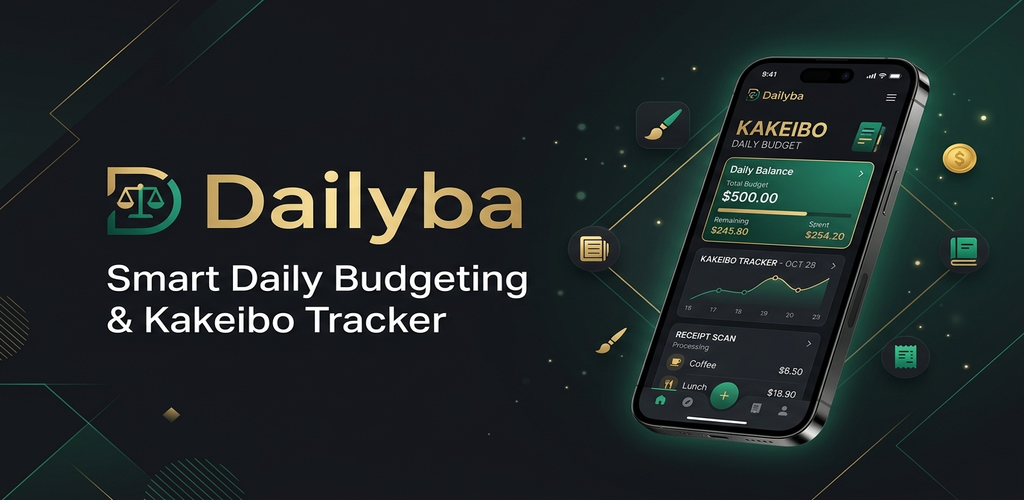
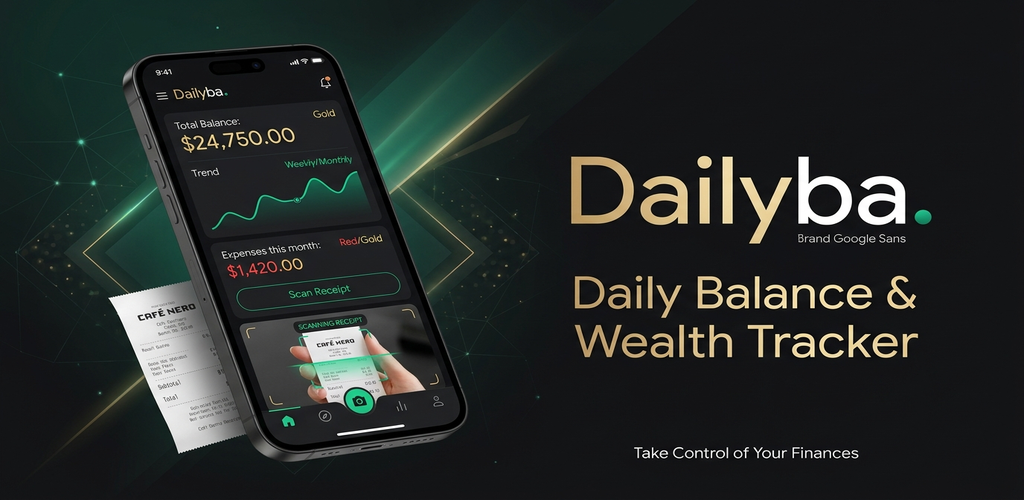
docs(store): standardize branding to Daily Balance & Wealth Tracker without emoticons

diff --git a/docs/RELEASE_AND_STORE_GUIDE.md b/docs/RELEASE_AND_STORE_GUIDE.md
@@ -96,8 +96,8 @@ Saat submit build via Xcode / Transporter:
 
 * **Feature Graphic Google Play Store (1024 x 500 px)**:
   * Lokasi: `public/dailyba-feature-graphic-1024x500.png`
-  * Rasio: Tepat 1024 x 500 piksel, memenuhi spesifikasi wajib Google Play Store tanpa kompresi blur.
-  * Preview & Desain: Menampilkan dark-mode liquid glass, mockup budgeting Kakeibo, logo Dailyba, dan scan receipt badge.
+  * Rasio: Tepat 1024 x 500 piksel, memenuhi spesifikasi wajib Google Play Store.
+  * Desain: Gaya fintech gelap minimalis dengan judul **Dailyba** dan subjudul **Daily Balance & Wealth Tracker**, menampilkan antarmuka pencatatan dan pemindai struk.
 
 ---
 
@@ -108,7 +108,7 @@ Gunakan akun resmi ini saat diminta di kolom **App Review Information / Test Acc
 * **Password**: `DailybaReview2026!`
 * **Peran**: Demo Account (Secara otomatis di-seed oleh backend server `server/index.js` saat startup).
 * **Catatan Tambahan untuk Reviewer**:
-  > *"All core budgeting features work 100% offline without login. The credentials above are provided for testing optional multi-device cloud synchronization."*
+  > "All core budgeting and balance tracking features work 100% offline without login. The credentials above are provided for testing optional multi-device cloud synchronization."
 
 ---
 
@@ -116,46 +116,45 @@ Gunakan akun resmi ini saat diminta di kolom **App Review Information / Test Acc
 
 ### A. Google Play Store
 * **App Title (Maks 30 karakter)**:
-  `Dailyba - Kakeibo Daily Budget`
+  `Dailyba`
 * **Short Description (Maks 80 karakter)**:
-  `Mindful daily budgeting, Kakeibo money tracker & smart AI receipt scanner.`
+  `Daily Balance & Wealth Tracker with daily spending target & AI receipt scanner.`
 * **Full Description (Maks 4000 karakter)**:
 ```text
-Dailyba is your mindful daily companion for financial clarity, combining the time-tested Japanese Kakeibo budgeting method with modern AI-powered receipt scanning.
+Dailyba: Daily Balance & Wealth Tracker
 
-🌿 MINDFUL JAPANESE KAKEIBO BUDGETING
-Instead of complicated financial jargon, Dailyba divides your financial life into intuitive, mindful pillars:
-• Needs (Living essentials & groceries)
-• Wants (Dining out, entertainment & shopping)
-• Culture (Books, self-improvement & courses)
-• Unexpected (Medical, repairs & urgent fixes)
+Dailyba is a streamlined financial tracker designed to provide clarity over your daily spending, recurring commitments, and long-term savings reserves.
 
-🎯 DAILY SPENDING TARGET (STAY MINDFUL EVERY DAY)
-Set a realistic daily allowance and watch your balance adjust in real-time. Know exactly how much you can comfortably spend today without breaking your monthly savings goal.
+1. DAILY SPENDING TARGET
+Set a realistic daily budget target to maintain financial awareness every single day. See your remaining allowance update instantly with every expense logged.
 
-📸 SMART AI RECEIPT SCANNER
-Snap a photo of your receipt or invoice. Dailyba instantly extracts the total amount, merchant, date, and suggested category with zero typing.
+2. FAST RECORDING & AI RECEIPT SCANNER
+Log expenses, income, and reserve allocations in seconds. Use the built-in receipt scanner to capture totals, merchants, and dates automatically from photos or camera input.
 
-🏦 SMART RESERVE & EMERGENCY VAULT
-Track your savings goals with dedicated emergency reserves and bank transfer logging. Watch your financial cushion grow step-by-step.
+3. STRUCTURED SPENDING CATEGORIES
+Organize your expenses into clear, practical pillars (Needs, Wants, Culture, and Unexpected) alongside flexible custom categories and funding sources (Cash, Bank, E-Wallet, Card).
 
-🔒 100% PRIVACY-FIRST & OFFLINE READY
-• Zero forced sign-ups: Track your finances entirely offline on your device from day one.
-• Optional Cloud Sync: Backup and synchronize seamlessly across devices whenever you choose.
-• Instant Account & Data Deletion: Retain full ownership of your data with one-tap permanent deletion.
-• Full Data Portability: Export and import your data anytime via JSON and CSV.
+4. RECURRING BILLS & COMMITMENTS
+Track recurring obligations such as rent, utilities, and subscriptions. Identify upcoming dues and mark them as settled with one click.
 
-🌍 MULTI-CURRENCY SUPPORT
-Seamlessly manage your money in IDR (Rp), JPY (¥), USD ($), or MMK (K) with built-in live exchange rates.
+5. SAVINGS VAULT & EMERGENCY RESERVE
+Allocate funds toward savings goals and emergency reserves. Monitor monthly allocation rates and cumulative reserve growth over time.
 
-Take control of your daily spending with peace of mind. Download Dailyba today!
+6. PRIVACY-FIRST ARCHITECTURE
+- Works fully offline out of the box with zero forced account creation.
+- Optional multi-device Cloud Sync for seamless data backup.
+- Instant permanent account and cloud data deletion directly from account settings.
+- Export and import full financial records anytime via JSON and CSV.
+
+7. MULTI-CURRENCY SUPPORT
+Support for IDR (Rp), JPY (¥), USD ($), and MMK (K) with live exchange rate conversions.
 ```
 
 ### B. Apple App Store
-* **Name**: `Dailyba - Daily Kakeibo Budget`
+* **Name**: `Dailyba`
 * **Subtitle (Maks 30 karakter)**:
-  `Mindful Daily Expense Tracker`
+  `Daily Balance & Wealth Tracker`
 * **Promotional Text (Maks 170 karakter)**:
-  `Track expenses the mindful Japanese way. Set daily budgets, scan receipts with AI, and grow your savings vault effortlessly.`
+  `Track daily balances, manage spending targets, scan receipts, and grow your wealth reserves with Dailyba.`
 * **Keywords (Maks 100 karakter)**:
-  `budget,kakeibo,expense tracker,daily budget,money manager,receipt scanner,saving,finance,spending`
+  `daily balance,wealth tracker,expense tracker,budget,spending limit,receipt scanner,saving,money`
